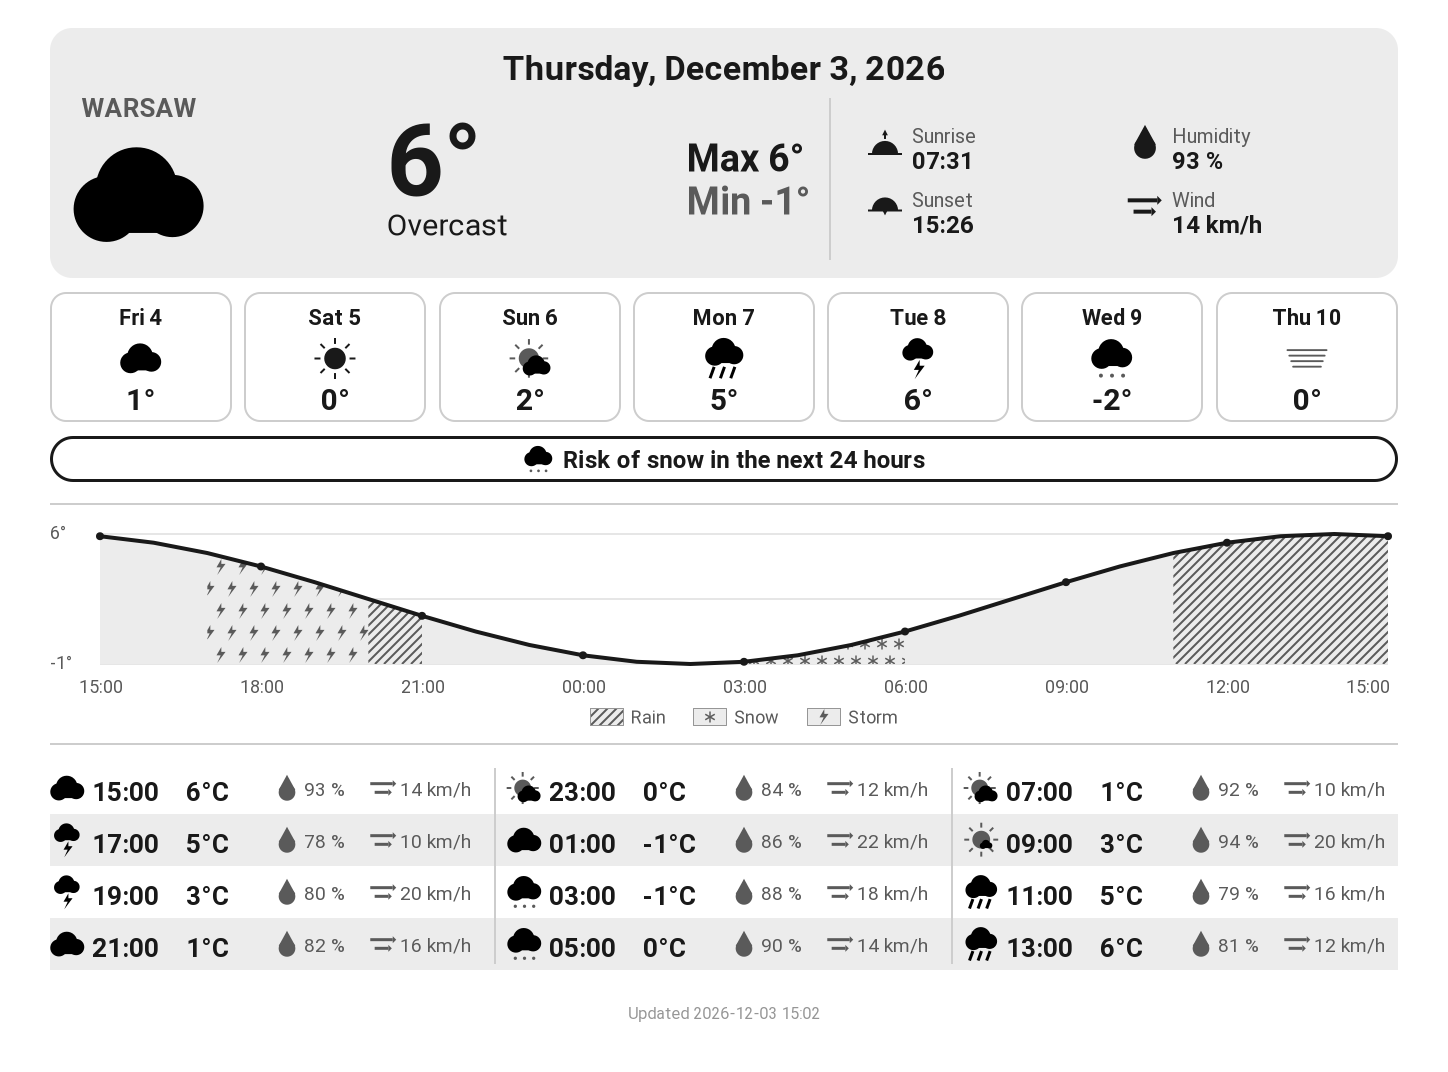
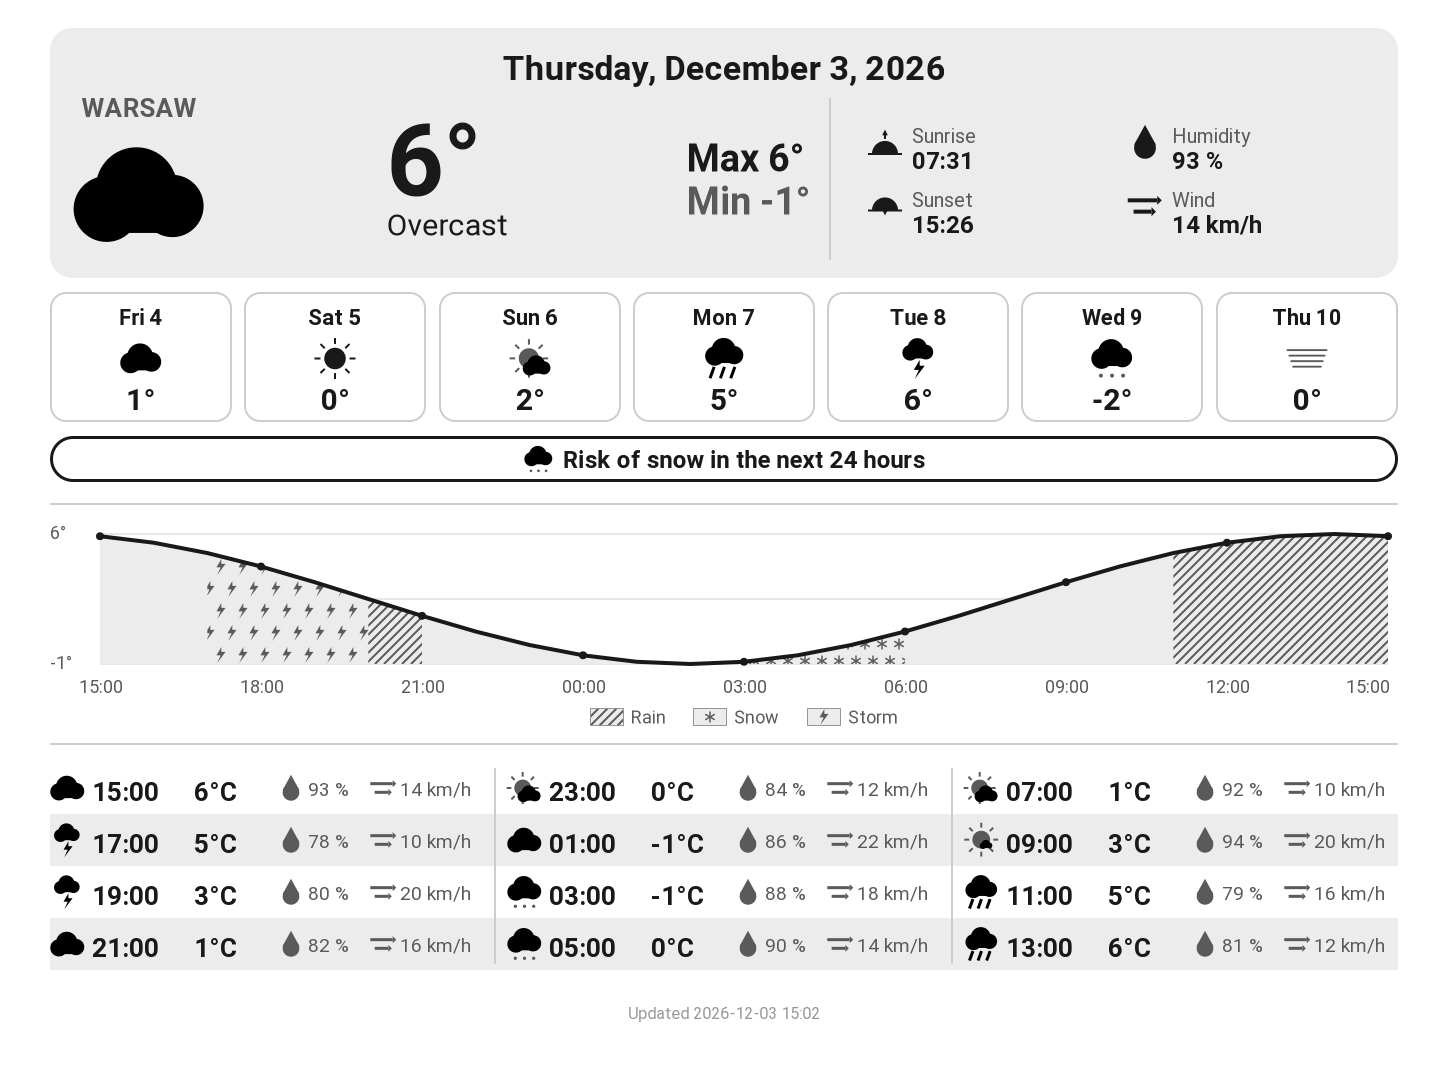
Add a 12-hour clock setting, and group the settings in a Settings submenu
With "clock": "12h", the hours read "3 PM" and the times "7:31 AM". The
hour column of the table is a little wider to fit them.

Claude-Session: https://claude.ai/code/session_01ArRJHWoxrTZihEERid19vz

diff --git a/kindleweather/lib/kindle_weather/render.py b/kindleweather/lib/kindle_weather/render.py
@@ -62,7 +62,7 @@ BANNER_ICONS = {"snow": 73, "storm": 95, "rain": 63}
 
 # Start of the hour, temperature, humidity and wind cells, as a share of a table
 # column; wind gets the widest cell since it holds an icon and "km/h".
-TABLE_CELLS = (0, 0.24, 0.47, 0.71)
+TABLE_CELLS = (0, 0.26, 0.48, 0.71)
 
 
 @dataclass(frozen=True)
@@ -115,10 +115,11 @@ def render_dashboard(
     size: tuple[int, int] = SCREEN_SIZE,
     orientation: str = "portrait",
     icon_set: str = DEFAULT_ICON_SET,
+    clock: str = "24h",
 ) -> Picture:
     """Render for a portrait framebuffer of `size`; landscape output is rotated to fit it."""
     canvas = _framebuffer_canvas(size, orientation)
-    return _Dashboard(forecast, locale, LAYOUTS[orientation], icon_set, canvas).render()
+    return _Dashboard(forecast, locale, LAYOUTS[orientation], icon_set, clock, canvas).render()
 
 
 def render_error(
@@ -179,6 +180,20 @@ def _legend_kinds(codes: list[int]) -> list[str]:
     return [kind for kind in LEGEND_KINDS if kind in present]
 
 
+def _time_text(hour: int, minute: int, clock: str) -> str:
+    """ "14:05" with the 24-hour clock, "2:05 PM" with the 12-hour one."""
+    if clock == "12h":
+        return f"{(hour - 1) % 12 + 1}:{minute:02d} {'AM' if hour < 12 else 'PM'}"
+    return f"{hour:02d}:{minute:02d}"
+
+
+def _hour_text(hour: int, clock: str) -> str:
+    """ "14:00" with the 24-hour clock, the shorter "2 PM" with the 12-hour one."""
+    if clock == "12h":
+        return f"{(hour - 1) % 12 + 1} {'AM' if hour < 12 else 'PM'}"
+    return f"{hour:02d}:00"
+
+
 def _shrink_to_fit(draw, text: str, font: Font, max_width: float) -> Font:
     while text_width(draw, text, font) > max_width and font.size > 16:
         font = font.variant(font.size - 1)
@@ -202,12 +217,19 @@ def _draw_symbol(draw, kind: str, x: float, y: float) -> None:
 
 class _Dashboard:
     def __init__(
-        self, forecast: Forecast, locale: Locale, layout: Layout, icon_set: str, canvas: Canvas
+        self,
+        forecast: Forecast,
+        locale: Locale,
+        layout: Layout,
+        icon_set: str,
+        clock: str,
+        canvas: Canvas,
     ):
         self.forecast = forecast
         self.locale = locale
         self.layout = layout
         self.icons = ICON_SETS[icon_set]
+        self.clock = clock
         self.width, self.height = layout.size
         self.draw = canvas
         self.fonts = {name: Font(path, size) for name, (path, size) in FONT_SPECS.items()}
@@ -221,6 +243,13 @@ class _Dashboard:
         y = self._hourly_table(y + 80)
         self._footer(y + self.layout.footer_gap)
         return self.draw.picture()
+
+    def _clock_time(self, text: str | None) -> str:
+        """An "HH:MM" time of the forecast, on the configured clock."""
+        if not text:
+            return "—"
+        hour, minute = text.split(":")
+        return _time_text(int(hour), int(minute), self.clock)
 
     def _separator(self, y: float) -> None:
         self.draw.line([(MARGIN, y), (self.width - MARGIN, y)], fill=GRAY_LIGHT, width=2)
@@ -300,9 +329,9 @@ class _Dashboard:
         wind = round(self.forecast.current.wind_speed)
         # Row by row: sunrise and humidity, then sunset and wind.
         cells = (
-            (labels["sunrise"], self.forecast.sunrise or "—", "sunrise"),
+            (labels["sunrise"], self._clock_time(self.forecast.sunrise), "sunrise"),
             (labels["humidity"], f"{humidity} %", "humidity"),
-            (labels["sunset"], self.forecast.sunset or "—", "sunset"),
+            (labels["sunset"], self._clock_time(self.forecast.sunset), "sunset"),
             (labels["wind"], f"{wind} km/h", "wind"),
         )
         cell_height, icon_size, inset = 64, 34, 14
@@ -408,7 +437,7 @@ class _Dashboard:
         draw.line(points, fill=INK, width=4)
 
         for (x, y), (_, entry) in list(zip(points, samples))[::3]:
-            self._chart_tick(x, y, f"{entry.hour:02d}:00", right, bottom)
+            self._chart_tick(x, y, _hour_text(entry.hour, self.clock), right, bottom)
 
         kinds = _legend_kinds([entry.weather_code for entry in forecast.hours])
         if kinds:
@@ -494,7 +523,10 @@ class _Dashboard:
                     for share in TABLE_CELLS
                 )
                 draw.text(
-                    (hour_x, middle - 12), f"{entry.hour:02d}:00", font=fonts["row"], fill=INK
+                    (hour_x, middle - 12),
+                    _hour_text(entry.hour, self.clock),
+                    font=fonts["row"],
+                    fill=INK,
                 )
                 draw.text(
                     (temp_x, middle - 12),
@@ -538,5 +570,7 @@ class _Dashboard:
         return bottom
 
     def _footer(self, y: int) -> None:
-        text = self.locale.format_updated_at(self.forecast.observed_at)
+        moment = self.forecast.observed_at
+        time = _time_text(moment.hour, moment.minute, self.clock)
+        text = self.locale.format_updated_at(moment, time)
         draw_centered_text(self.draw, self.width // 2, y, text, self.fonts["footer"], GRAY_MID)

diff --git a/kindleweather/lib/kindle_weather/settings.py b/kindleweather/lib/kindle_weather/settings.py
@@ -1,4 +1,4 @@
-"""The KUAL menu, with a submenu per setting, and the changes made from it.
+"""The KUAL menu, with a Settings submenu, and the changes made from it.
 
 python3 -m kindle_weather.settings SETTING VALUE   changes config.json, then the menu
 python3 -m kindle_weather.settings                 rewrites the menu from config.json
@@ -51,6 +51,11 @@ SETTINGS = {
         ("temperature_unit",),
         {"celsius": "Celsius", "fahrenheit": "Fahrenheit"},
     ),
+    "clock": (
+        "Clock",
+        ("clock",),
+        {"24h": "24-hour", "12h": "12-hour (AM/PM)"},
+    ),
 }
 
 
@@ -75,9 +80,11 @@ def write_menu() -> None:
         "orientation": config.orientation,
         "icons": config.icon_set,
         "temperature": config.temperature_unit,
+        "clock": config.clock,
     }
-    items = [{"name": "Start weather station", "priority": 1, "action": "sh bin/start.sh"}]
-    for priority, (setting, (label, _, values)) in enumerate(SETTINGS.items(), start=2):
+    # One submenu per setting, named after its current value.
+    settings = []
+    for priority, (setting, (label, _, values)) in enumerate(SETTINGS.items(), start=1):
         choices = [
             {
                 "name": name,
@@ -90,8 +97,12 @@ def write_menu() -> None:
             for index, (value, name) in enumerate(values.items(), start=1)
         ]
         name = values[current[setting]]
-        items.append({"name": f"{label}: {name}", "priority": priority, "items": choices})
-    items.append({"name": "Diagnostic", "priority": len(items) + 1, "action": "sh bin/diagnose.sh"})
+        settings.append({"name": f"{label}: {name}", "priority": priority, "items": choices})
+    items = [
+        {"name": "Start weather station", "priority": 1, "action": "sh bin/start.sh"},
+        {"name": "Settings", "priority": 2, "items": settings},
+        {"name": "Diagnostic", "priority": 3, "action": "sh bin/diagnose.sh"},
+    ]
     menu = {"items": [{"name": "KindleWeather", "priority": 1, "items": items}]}
     with open(MENU_PATH, "w", encoding="utf-8", newline="\n") as file:
         json.dump(menu, file, indent=2)

diff --git a/kindleweather/lib/kindle_weather/config.py b/kindleweather/lib/kindle_weather/config.py
@@ -11,6 +11,7 @@ from kindle_weather.icons import DEFAULT_ICON_SET, ICON_SETS
 
 ORIENTATIONS = ("portrait", "landscape")
 TEMPERATURE_UNITS = ("celsius", "fahrenheit")
+CLOCKS = ("24h", "12h")
 
 
 class ConfigError(ValueError):
@@ -28,6 +29,8 @@ class Config:
     orientation: str
     icon_set: str
     temperature_unit: str
+    # "24h" or "12h", with AM and PM.
+    clock: str
 
 
 def load_config(path: Path) -> Config:
@@ -69,6 +72,9 @@ def load_config(path: Path) -> Config:
         f"temperature_unit must be one of {TEMPERATURE_UNITS}",
     )
 
+    clock = raw.get("clock", "24h")
+    _require(clock in CLOCKS, f"clock must be one of {CLOCKS}")
+
     return Config(
         locale=LOCALES[language],
         city=city.strip(),
@@ -77,6 +83,7 @@ def load_config(path: Path) -> Config:
         orientation=orientation,
         icon_set=icon_set,
         temperature_unit=temperature_unit,
+        clock=clock,
     )
 
 

diff --git a/kindleweather/lib/kindle_weather/i18n.py b/kindleweather/lib/kindle_weather/i18n.py
@@ -32,8 +32,9 @@ class Locale:
     def format_short_date(self, day: date) -> str:
         return f"{self.short_weekdays[day.weekday()]} {day.day}"
 
-    def format_updated_at(self, moment: datetime) -> str:
-        return self.labels["updated"].format(moment.strftime(self.timestamp))
+    def format_updated_at(self, moment: datetime, time: str) -> str:
+        """The footer, with time the clock time of moment as the dashboard shows it."""
+        return self.labels["updated"].format(moment.strftime(self.timestamp.replace("%H:%M", time)))
 
     def describe(self, weather_code: int) -> str:
         return self.weather.get(weather_code, self.labels["variable"])

diff --git a/kindleweather/lib/kindle_weather/__main__.py b/kindleweather/lib/kindle_weather/__main__.py
@@ -56,7 +56,12 @@ def draw(config_path: Path, output: Path) -> None:
     place = geocode(config.city, config.country_code, config.locale.code)
     forecast = fetch_forecast(place, config.temperature_unit)
     image = render_dashboard(
-        forecast, config.locale, config.display_size, config.orientation, config.icon_set
+        forecast,
+        config.locale,
+        config.display_size,
+        config.orientation,
+        config.icon_set,
+        config.clock,
     )
     image.save(output)
 

diff --git a/README.md b/README.md
@@ -18,7 +18,7 @@ key is needed.
 - The next 7 days, with their weather icon and mean temperature
 - A precipitation alert for the next 24 hours: snow, thunderstorm or rain
 - A temperature chart and an hourly table for the next 24 hours, with rain, snow and thunderstorm hours shaded
-- Portrait or landscape, Celsius or Fahrenheit, three [icon sets](#icon-sets), eight [languages](#languages)
+- Portrait or landscape, Celsius or Fahrenheit, 24-hour or 12-hour clock, three [icon sets](#icon-sets), eight [languages](#languages), all set from the [KUAL menu](#kual-menu)
 - An [error code](#error-codes) on the screen when something goes wrong, and a low battery warning
 
 ## How it works
@@ -72,9 +72,9 @@ The station wakes up with the clock at `/dev/rtc1`, as on the Paperwhite 2 and
 4. **Set your city**: open `extensions/kindleweather/config.json` on the Kindle
    with a text editor, see [Configuration](#configuration).
 5. **Start the station**: eject the Kindle and unplug it, then open
-   **KUAL > KindleWeather**. Choose the language, orientation, icons and
-   temperature unit if needed (see [KUAL menu](#kual-menu)), then press
-   **Start weather station**. KUAL closes, the screen shows "Starting the
+   **KUAL > KindleWeather**. Choose the language, orientation, icons,
+   temperature unit and clock in **Settings** if needed (see
+   [KUAL menu](#kual-menu)), then press **Start weather station**. KUAL closes, the screen shows "Starting the
    weather station..." and the dashboard appears within a minute.
 
 To stop the station and get the normal Kindle back, restart it: hold the power
@@ -112,10 +112,12 @@ ssh root@KINDLE_IP "mv /mnt/us/config.json.bak /mnt/us/extensions/kindleweather/
 ```
 KindleWeather
   Start weather station
-  Language: English       > English, Francais, Deutsch, Espanol, Italiano, Portugues, Nederlands, Polski
-  Orientation: Portrait   > Portrait, Landscape
-  Icons: Classic          > Classic, Weather Icons, Material
-  Temperature: Celsius    > Celsius, Fahrenheit
+  Settings
+    Language: English       > English, Francais, Deutsch, Espanol, Italiano, Portugues, Nederlands, Polski
+    Orientation: Portrait   > Portrait, Landscape
+    Icons: Classic          > Classic, Weather Icons, Material
+    Temperature: Celsius    > Celsius, Fahrenheit
+    Clock: 24-hour          > 24-hour, 12-hour (AM/PM)
   Diagnostic
 ```
 
@@ -134,7 +136,8 @@ set there with a text editor; the other settings can also be changed from the
   "language": "en",
   "location": { "city": "Lyon", "country_code": "FR" },
   "display": { "width": 1072, "height": 1448, "orientation": "portrait", "icons": "classic" },
-  "temperature_unit": "celsius"
+  "temperature_unit": "celsius",
+  "clock": "24h"
 }
 ```
 
@@ -147,6 +150,7 @@ set there with a text editor; the other settings can also be changed from the
 | `display.orientation` | `"portrait"` (default) or `"landscape"`. In landscape, read the Kindle turned a quarter turn clockwise. |
 | `display.icons` | `"classic"` (default), `"weather-icons"` or `"material"`, see [Icon sets](#icon-sets). |
 | `temperature_unit` | `"celsius"` (default) or `"fahrenheit"`. |
+| `clock` | `"24h"` (default) or `"12h"`, with AM and PM. |
 
 Changes made to the file while the station runs apply at the next refresh.
 
